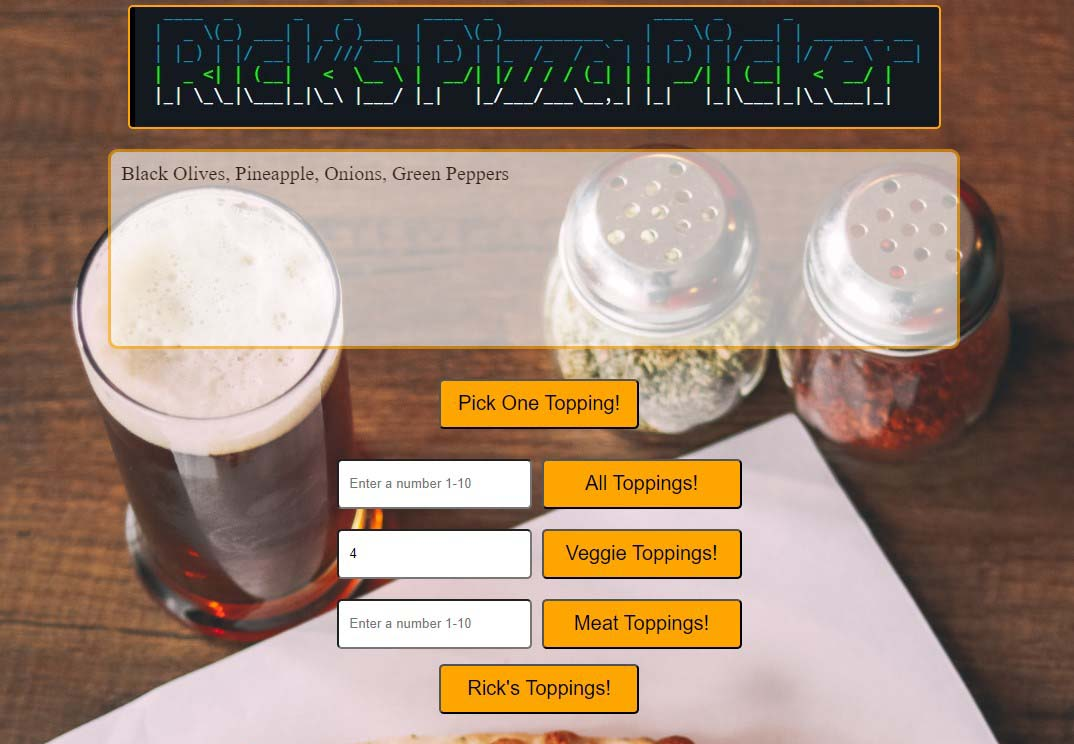
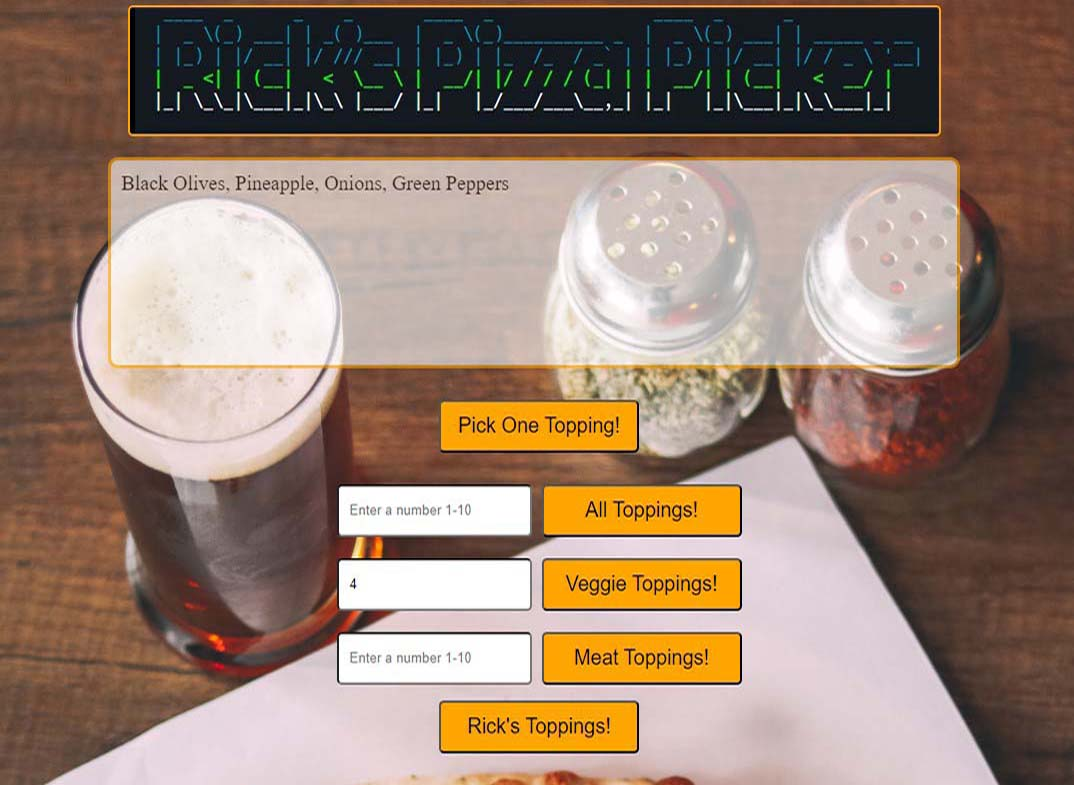
-adjust img size, add hamilton, remove docs

diff --git a/index.html b/index.html
@@ -89,22 +89,19 @@
 					<div class="row">
 						<div class="col-4 col-6-medium col-12-small">
 							<article class="box style2">
-								<a href="https://radar3759.github.io/Linktree-clone/" class="image featured" target="_blank"><img src="images/linktree-clone.jpg" alt="" />
-								</a>
-								<h3>
-									<a href="https://radar3759.github.io/Linktree-clone/">Linktree Clone</a>
-								</h3>
-								<p>Copycat of Linktree in HTML/CSS/JS</p>
+								<a href="https://radar3759.github.io//tenDualCommandments/" class="image featured" target="_blank"><img src="images/TDC2.jpg" alt="" /></a>
+								<h3><a href="https://radar3759.github.io//tenDualCommandments/"" target="blank">Hamilton!</a></h3>
+								<p>Ten Dual Commandments</p>
 							</article>
 						</div>
 						<div class="col-4 col-6-medium col-12-small">
 							<article class="box style2">
-								<a href="https://radar3759.github.io/fictional-memory/" class="image featured" target="_blank"><img src="images/Fizzbuzz_sm.jpg" alt="" />
-								</a>
-								<h3>
-									<a href="https://radar3759.github.io/fictional-memory/">Fizz Buzz</a></h3>
-								<p>FizzBuzz, now with pics!</p>
+								<a href="https://radar3759.github.io/pizza-pizza/" class="image featured" target="_blank"><img src="images/pizza-picker.jpg" alt="" /></a>
+								<h3><a href="https://radar3759.github.io/pizza-pizza/" target="_blank">Rick's Pizza Picker!</a></h3>
+								<p>Why argue about toppings? Use this!</p>
 							</article>
+							
+							
 						</div>
 						<div class="col-4 col-6-medium col-12-small">
 							<article class="box style2">
@@ -113,7 +110,7 @@
 								<h3>
 									<a href="https://radar3759.github.io/curly-octo-barnacle/" target="_blank">Awesome To Do List</a>
 								</h3>
-								<p>You've got something to do, list it!</p>
+								<p>You've got something to do. List it!</p>
 							</article>
 						</div>
 						<div class="col-4 col-6-medium col-12-small">
@@ -125,17 +122,30 @@
 						</div>
 						<div class="col-4 col-6-medium col-12-small">
 							<article class="box style2">
+								<a href="https://radar3759.github.io/fictional-memory/" class="image featured" target="_blank"><img src="images/Fizzbuzz_sm.jpg" alt="" />
+								</a>
+								<h3>
+									<a href="https://radar3759.github.io/fictional-memory/">Fizz Buzz</a></h3>
+								<p>FizzBuzz, now with pics!</p>
+							</article>
+						</div>
+						<!-- <div class="col-4 col-6-medium col-12-small">
+							<article class="box style2">
 								<a href="https://radar3759.github.io/stunning-potato/" class="image featured" target="_blank"><img src="images/technical_documentation.jpg" alt="" /></a>
 								<h3><a href="https://radar3759.github.io/stunning-potato/" target="_blank">Technical Docs</a></h3>
 								<p>If only all docs were this readable!</p>
 							</article>
-						</div>
+						</div> -->
 						<div class="col-4 col-6-medium col-12-small">
-							<article class="box style2">
-								<a href="https://radar3759.github.io/pizza-pizza/" class="image featured" target="_blank"><img src="images/pizza-picker.jpg" alt="" /></a>
-								<h3><a href="https://radar3759.github.io/pizza-pizza/" target="_blank">Rick's Pizza Picker!</a></h3>
-								<p>Why argue about toppings? Use this!</p>
+							<article class="box style2 clone">
+								<a href="https://radar3759.github.io/Linktree-clone/" class="image featured" target="_blank"><img src="images/linktree-clone.jpg" alt="" />
+								</a>
+								<h3>
+									<a href="https://radar3759.github.io/Linktree-clone/">Linktree Clone</a>
+								</h3>
+								<p>Copycat of Linktree in HTML/CSS/JS</p>
 							</article>
+							
 						</div>
 					</div>
 					<footer>

diff --git a/assets/css/main.css b/assets/css/main.css
@@ -1915,6 +1915,8 @@ input, select, textarea {
 		box-shadow: inset 0px 0px 0px 1px rgba(0, 0, 0, 0.15), 0px 2px 3px 0px rgba(0, 0, 0, 0.1);
 		text-align: center;
 		padding: 2em;
+		
+		
 	}
 
 		.box.style1 {
@@ -1927,6 +1929,7 @@ input, select, textarea {
 
 		.box.style2 h3 {
 			margin-bottom: 0.25em;
+			
 		}
 
 		.box.style2 .image {
@@ -1935,8 +1938,10 @@ input, select, textarea {
 			top: 2em;
 			margin: -4em 0 4em -4em;
 			width: auto;
+			
 		}
 
+		
 /* Icons */
 
 	.icon {
